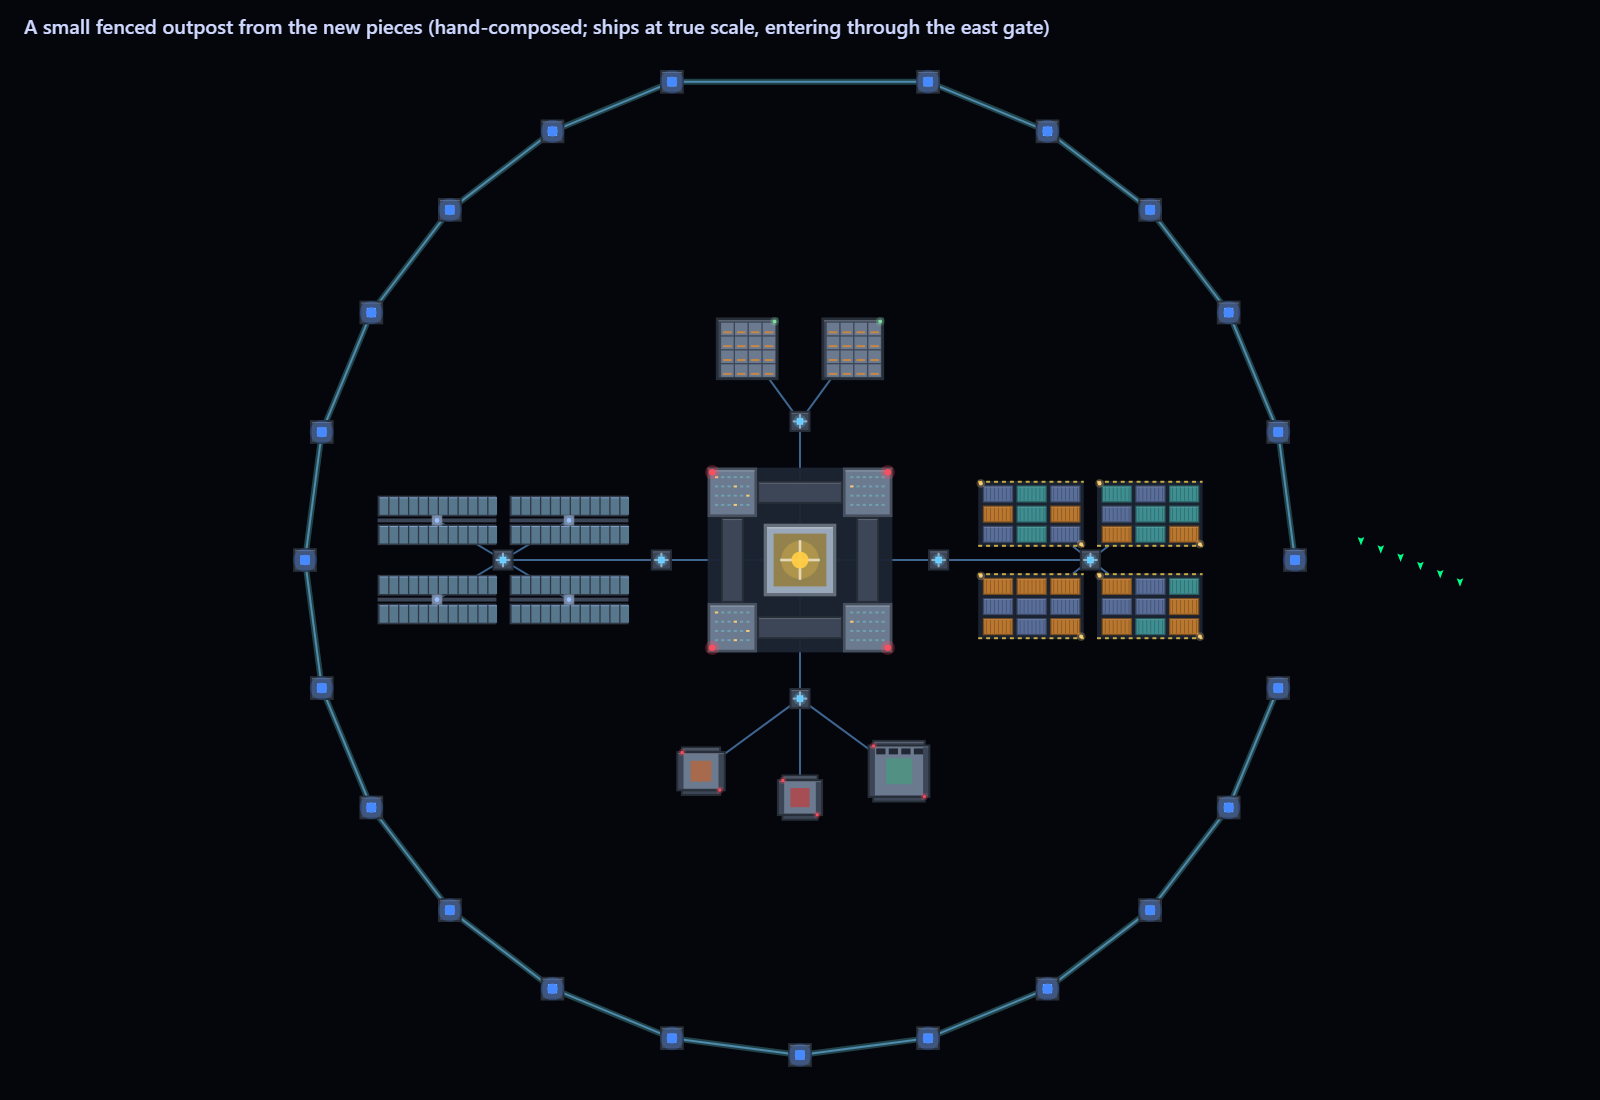
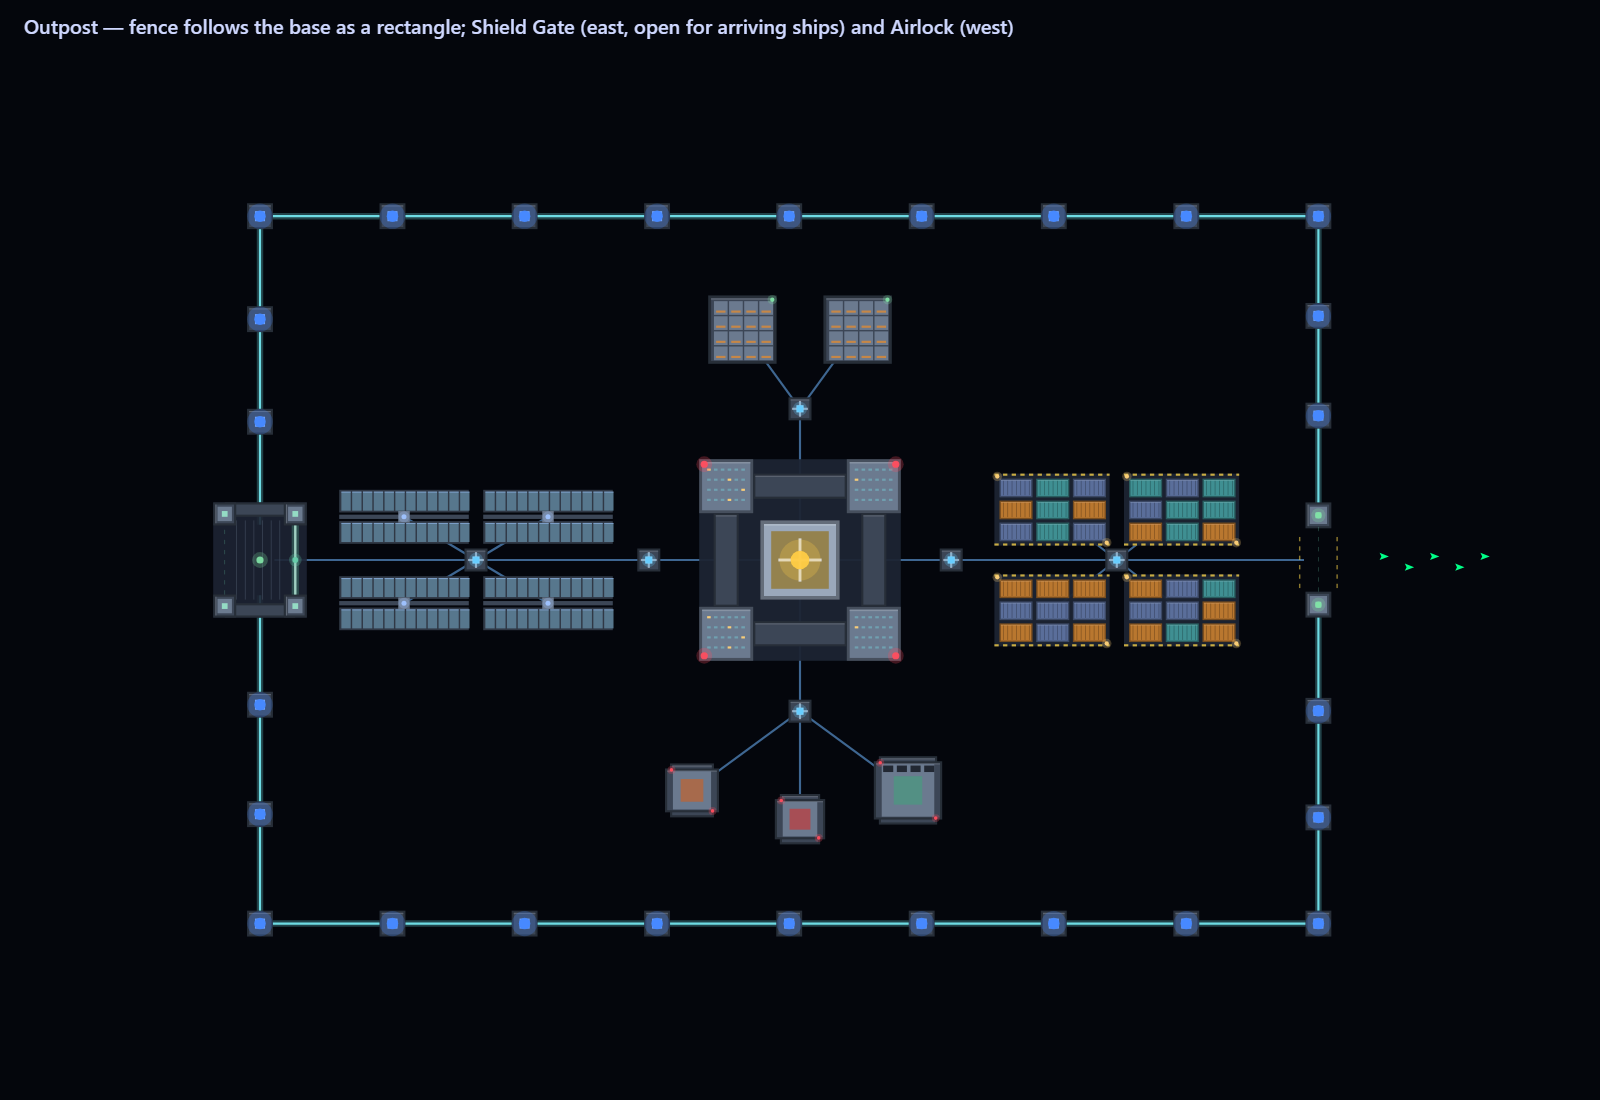
feat(structures): V design — Shield Gate + Airlock, contour (rectangular) fence in the design sheet (plan: soft-leaping-truffle v2)
Draw plans for two new pylon variants requested by the user: a Shield
Gate (one structure, two posts, a shield span that opens on approach)
and a Shield Airlock (a chamber that opens one end or the other, never
both). The design-sheet outpost now fences the base's footprint extent
as a rectangle, built as segments that end exactly at the gate posts.

Claude-Session: https://claude.ai/code/session_01VvUaXSrJHKkjbMhrGtHDqD

diff --git a/scripts/showcase/structure-design-sheet.ts b/scripts/showcase/structure-design-sheet.ts
@@ -4,34 +4,55 @@
  * (`structureVisuals.ts`):
  *  1. every structure kind, old regular-polygon silhouette vs the new
  *     architectural footprint, with a fighter drawn at true scale;
- *  2. a small fenced outpost composed from the new pieces.
+ *  2. the gate structures: Shield Gate (closed / open) and Shield Airlock
+ *     (closed / end A open / end B open — never both);
+ *  3. a small outpost whose fence is a rectangle hugging the base's extent
+ *     (not a circle), with a Shield Gate on one side and an Airlock on another.
  *
  *   pnpm tsx scripts/showcase/structure-design-sheet.ts [outDir]
  */
 import { chromium } from '@playwright/test';
 import { mkdirSync } from 'node:fs';
 import { STRUCTURE_KINDS_LIST, getStructureKind } from '../../src/shared-types/structureKinds.js';
-import { buildStructureVisual, PROPOSED_FOOTPRINTS } from '../../src/client/render/pixi/structureVisuals.js';
+import { buildStructureVisual, PROPOSED_FOOTPRINTS, type GateState } from '../../src/client/render/pixi/structureVisuals.js';
 import { shipHullOutline, shipPrimaryColor } from '../../src/core/geometry/shipHullOutline.js';
 import { GAMEPLAY_SHIP_KINDS_LIST } from '../../src/shared-types/shipKinds.js';
 
 const out = process.argv[2] ?? 'diag/showcase/structure-redesign';
 mkdirSync(out, { recursive: true });
 
-type Item = { kind: string; x: number; y: number; rot?: number };
-function plan(kind: string, seed: number) {
-  const v = buildStructureVisual(kind, { accent: getStructureKind(kind).color, seed });
-  return { rects: v.rects.map((r) => [r.x, r.y, r.w, r.h, r.color, Math.round(r.alpha * 1000)]), lights: v.lights.map((l) => [l.x, l.y, l.r, l.color]), fp: v.footprint };
+const GATE_ACCENT = 0x66ccaa; // the shield-pylon tint (gates are pylon variants)
+const NAMES: Record<string, string> = { shield_gate: 'Shield Gate', shield_airlock: 'Shield Airlock' };
+function accentOf(kind: string): number {
+  return kind === 'shield_gate' || kind === 'shield_airlock' ? GATE_ACCENT : getStructureKind(kind).color;
+}
+function plan(kind: string, seed: number, gate?: GateState) {
+  const v = buildStructureVisual(kind, { accent: accentOf(kind), seed, gate });
+  return {
+    rects: v.rects.map((r) => [r.x, r.y, r.w, r.h, r.color, Math.round(r.alpha * 1000)]),
+    lights: v.lights.map((l) => [l.x, l.y, l.r, l.color]),
+    fp: v.footprint,
+  };
 }
 
-// Sheet 1: kinds in a row-wrapped grid.
+// Sheet 1: every existing kind, old vs new.
 const kinds = STRUCTURE_KINDS_LIST.map((k) => k.id).filter((id) => PROPOSED_FOOTPRINTS[id]);
-const sheet = kinds.map((id, i) => ({ id, name: getStructureKind(id).displayName ?? id, oldR: getStructureKind(id).radius, sides: 0, ...plan(id, i + 1) }));
-const fighter = { pts: shipHullOutline(GAMEPLAY_SHIP_KINDS_LIST.find((k) => k.id === 'fighter')!).flat(), color: shipPrimaryColor(GAMEPLAY_SHIP_KINDS_LIST.find((k) => k.id === 'fighter')!) };
+const sheet = kinds.map((id, i) => ({ id, name: getStructureKind(id).displayName ?? id, oldR: getStructureKind(id).radius, ...plan(id, i + 1) }));
+const fk = GAMEPLAY_SHIP_KINDS_LIST.find((k) => k.id === 'fighter')!;
+const fighter = { pts: shipHullOutline(fk).flat(), color: shipPrimaryColor(fk) };
 
-// Sheet 2: a small outpost (hand-composed for the review — the generator
-// comes in phase D).
-const outpost: Item[] = [
+// Sheet 2: gates in each state.
+const gates = [
+  { label: 'Shield Gate — closed', ...plan('shield_gate', 1, 'closed') },
+  { label: 'Shield Gate — open (a ship is approaching)', ...plan('shield_gate', 1, 'open') },
+  { label: 'Airlock — both ends closed', ...plan('shield_airlock', 1, 'closed') },
+  { label: 'Airlock — end A open', ...plan('shield_airlock', 1, 'openA') },
+  { label: 'Airlock — end B open', ...plan('shield_airlock', 1, 'openB') },
+];
+
+// Sheet 3: the outpost with a rectangular fence that hugs the base.
+type Item = { kind: string; x: number; y: number; rot?: 0 | 90; gate?: GateState };
+const core: Item[] = [
   { kind: 'capital', x: 0, y: 0 },
   { kind: 'connector', x: 420, y: 0 }, { kind: 'connector', x: -420, y: 0 },
   { kind: 'connector', x: 0, y: 420 }, { kind: 'connector', x: 0, y: -420 },
@@ -42,58 +63,103 @@ const outpost: Item[] = [
   { kind: 'battery', x: -160, y: 640 }, { kind: 'battery', x: 160, y: 640 },
   { kind: 'turret', x: 0, y: -720 }, { kind: 'missile_turret', x: 300, y: -640 }, { kind: 'laser_bolt_turret', x: -300, y: -640 },
 ];
-const R = 1500;
-for (let a = 0; a < 360; a += 15) {
-  if (a > 80 && a < 100) continue; // a gate on the east side
-  outpost.push({ kind: 'shield_pylon', x: Math.round(Math.cos((a * Math.PI) / 180) * R), y: Math.round(Math.sin((a * Math.PI) / 180) * R) });
+// Fence rectangle = the base's footprint extent + a margin (contour-hugging),
+// pylons at ≤ 400 u spacing, corners included; a Shield Gate replaces the
+// east-middle span and an Airlock the west-middle span.
+let minX = Infinity, maxX = -Infinity, minY = Infinity, maxY = -Infinity;
+for (const it of core) {
+  const f = PROPOSED_FOOTPRINTS[it.kind]!;
+  minX = Math.min(minX, it.x - f.w / 2); maxX = Math.max(maxX, it.x + f.w / 2);
+  minY = Math.min(minY, it.y - f.h / 2); maxY = Math.max(maxY, it.y + f.h / 2);
 }
-const outpostPlans = outpost.map((it, i) => ({ ...it, ...plan(it.kind, i + 7) }));
+const M = 220;
+const fx0 = Math.floor(minX - M), fx1 = Math.ceil(maxX + M), fy0 = Math.floor(minY - M), fy1 = Math.ceil(maxY + M);
+// Each fence side is built as SEGMENTS ending exactly at the gate posts, so
+// the shield is continuous right up to the Shield Gate / Airlock.
+const gateHalf = PROPOSED_FOOTPRINTS.shield_gate!.w / 2 - PROPOSED_FOOTPRINTS.shield_gate!.h / 2; // post centre
+const lockHalf = PROPOSED_FOOTPRINTS.shield_airlock!.h / 2 - 32; // airlock outer post centre (rotated 90)
+const segs: Array<[number, number, number, number]> = [
+  [fx0, fy0, fx1, fy0],
+  [fx1, fy0, fx1, -gateHalf], [fx1, gateHalf, fx1, fy1],
+  [fx1, fy1, fx0, fy1],
+  [fx0, fy1, fx0, lockHalf], [fx0, -lockHalf, fx0, fy0],
+];
+const pylons = new Map<string, [number, number]>();
+const spans: number[][] = [];
+for (const [ax, ay, bx, by] of segs) {
+  const n = Math.max(1, Math.ceil(Math.hypot(bx - ax, by - ay) / 400));
+  let px = ax, py = ay;
+  for (let i = 1; i <= n; i++) {
+    const x = Math.round(ax + ((bx - ax) * i) / n), y = Math.round(ay + ((by - ay) * i) / n);
+    spans.push([px, py, x, y]);
+    px = x; py = y;
+  }
+  for (let i = 0; i <= n; i++) {
+    const x = Math.round(ax + ((bx - ax) * i) / n), y = Math.round(ay + ((by - ay) * i) / n);
+    // Segment ends that touch a gate are the gate's own posts — no pylon there.
+    const atGate = (x === fx1 && Math.abs(y) === gateHalf) || (x === fx0 && Math.abs(y) === lockHalf);
+    if (!atGate) pylons.set(x + ',' + y, [x, y]);
+  }
+}
+const gateE = { kind: 'shield_gate', x: fx1, y: 0, rot: 90 as const, gate: 'open' as GateState };
+const lockW = { kind: 'shield_airlock', x: fx0, y: 0, rot: 90 as const, gate: 'openA' as GateState };
+const fence: Item[] = [...pylons.values()].map(([x, y]) => ({ kind: 'shield_pylon', x, y }));
+const items: Item[] = [...core, ...fence, gateE, lockW];
+const itemPlans = items.map((it, i) => ({ ...it, ...plan(it.kind, i + 7, it.gate) }));
 const links: number[][] = [];
-const conn = (a: number, b: number): void => { links.push([outpost[a]!.x, outpost[a]!.y, outpost[b]!.x, outpost[b]!.y]); };
+const conn = (a: number, b: number): void => { links.push([core[a]!.x, core[a]!.y, core[b]!.x, core[b]!.y]); };
 for (const k of [1, 2, 3, 4]) conn(0, k);
 for (const k of [5, 6, 7, 8]) conn(9, k);
 conn(1, 9);
 for (const k of [10, 11, 12, 13]) conn(14, k);
 conn(2, 14);
 conn(3, 15); conn(3, 16); conn(4, 17); conn(4, 18); conn(4, 19);
-const firstPylon = 20;
-for (let p = firstPylon; p < outpost.length - 1; p++) conn(p, p + 1);
+links.push([880, 0, fx1 - 40, 0]); // tap the east gate
+links.push([-900, 0, fx0 + 40, 0]); // tap the west airlock
 
-const html = `<!doctype html><body style="margin:0;background:#04060c"><canvas id=a width=1600 height=900></canvas><canvas id=b width=1600 height=1100></canvas><script>
-const S=${JSON.stringify(sheet)},F=${JSON.stringify(fighter)},O=${JSON.stringify(outpostPlans)},LK=${JSON.stringify(links)};
+const html = `<!doctype html><body style="margin:0;background:#04060c"><canvas id=a width=1600 height=560></canvas><canvas id=g width=1600 height=330></canvas><canvas id=b width=1600 height=1100></canvas><script>
+const S=${JSON.stringify(sheet)},F=${JSON.stringify(fighter)},G=${JSON.stringify(gates)},O=${JSON.stringify(itemPlans)},LK=${JSON.stringify(links)},SP=${JSON.stringify(spans)};
 const hex=n=>'#'+n.toString(16).padStart(6,'0');
-function drawPlan(g,p,x,y){g.save();g.translate(x,y);for(const r of p.rects){g.globalAlpha=r[5]/1000;g.fillStyle=hex(r[4]);g.fillRect(r[0],r[1],r[2],r[3]);}
+function drawPlan(g,p,x,y,rot){g.save();g.translate(x,y);if(rot)g.rotate(-rot*Math.PI/180);for(const r of p.rects){g.globalAlpha=r[5]/1000;g.fillStyle=hex(r[4]);g.fillRect(r[0],r[1],r[2],r[3]);}
  for(const l of p.lights){g.fillStyle=hex(l[3]);g.globalAlpha=.25;g.beginPath();g.arc(l[0],l[1],l[2]*2.2,0,7);g.fill();g.globalAlpha=.95;g.beginPath();g.arc(l[0],l[1],l[2],0,7);g.fill();}g.restore();g.globalAlpha=1;}
-function ship(g,x,y,s){g.save();g.translate(x,y);g.scale(s,s);g.fillStyle=hex(F.color);g.beginPath();for(let i=0;i<F.pts.length;i+=2){i?g.lineTo(F.pts[i],-F.pts[i+1]):g.moveTo(F.pts[i],-F.pts[i+1]);}g.closePath();g.fill();g.restore();}
+function ship(g,x,y,s,rot){g.save();g.translate(x,y);if(rot)g.rotate(rot);g.scale(s,s);g.fillStyle=hex(F.color);g.beginPath();for(let i=0;i<F.pts.length;i+=2){i?g.lineTo(F.pts[i],-F.pts[i+1]):g.moveTo(F.pts[i],-F.pts[i+1]);}g.closePath();g.fill();g.restore();}
 function poly(g,x,y,r,n,c){g.save();g.translate(x,y);g.fillStyle=hex(c);g.globalAlpha=.9;g.beginPath();for(let i=0;i<n;i++){const a=i/n*Math.PI*2-Math.PI/2;i?g.lineTo(Math.cos(a)*r,Math.sin(a)*r):g.moveTo(Math.cos(a)*r,Math.sin(a)*r);}g.closePath();g.fill();g.restore();g.globalAlpha=1;}
-// Sheet 1 — scale 0.42 world→px.
+// Sheet 1.
 const a=document.getElementById('a').getContext('2d');const z=0.42;
 a.fillStyle='#cfd8ff';a.font='600 20px system-ui';a.fillText('Old (left, true size) vs redesigned (right) · fighter for scale',24,34);
 let cx=40,cy=80,rowH=0;
 for(const it of S){const w=it.fp.w*z,h=it.fp.h*z;if(cx+w+90>1580){cx=40;cy+=rowH+70;rowH=0;}
- a.save();a.scale(1,1);poly(a,cx+20,cy+h/2,it.oldR*z,6,0x8899aa);a.restore();
+ poly(a,cx+20,cy+h/2,it.oldR*z,6,0x8899aa);
  a.save();a.translate(cx+50+w/2,cy+h/2);a.scale(z,z);drawPlan(a,it,0,0);a.restore();
  ship(a,cx+50+w+24,cy+h/2,z);
  a.fillStyle='#8fa0bb';a.font='13px system-ui';a.fillText(it.name+'  '+it.fp.w+'×'+it.fp.h+' u',cx,cy+h+22);
  cx+=w+150;rowH=Math.max(rowH,h);}
-// Sheet 2 — the outpost at scale 0.3, centred.
-const b=document.getElementById('b').getContext('2d');const s=0.33;
+// Sheet 2: gates.
+const gg=document.getElementById('g').getContext('2d');const zg=0.6;
+gg.fillStyle='#cfd8ff';gg.font='600 20px system-ui';gg.fillText('Gates — a Shield Gate is ONE structure (two posts + a shield); an Airlock never opens both ends',24,34);
+let gx=30;
+G.forEach((it,i)=>{const w=it.fp.w*zg,h=it.fp.h*zg;gg.save();gg.translate(gx+w/2,180);gg.scale(zg,zg);drawPlan(gg,it,0,0);
+ if(i===1)ship(gg,0,-110,1.6,Math.PI);if(i===3)ship(gg,0,-150,1.6,Math.PI);if(i===4)ship(gg,0,150,1.6,Math.PI);gg.restore();
+ gg.fillStyle='#8fa0bb';gg.font='13px system-ui';gg.fillText(it.label,gx,300);gx+=w+110;});
+// Sheet 3: the outpost.
+const b=document.getElementById('b').getContext('2d');const s=0.36;
 b.save();b.translate(800,560);b.scale(s,s);
+b.strokeStyle='#7cf7ff';b.lineWidth=18;b.globalAlpha=.25;for(const l of SP){b.beginPath();b.moveTo(l[0],-l[1]);b.lineTo(l[2],-l[3]);b.stroke();}
+b.lineWidth=6;b.globalAlpha=.85;for(const l of SP){b.beginPath();b.moveTo(l[0],-l[1]);b.lineTo(l[2],-l[3]);b.stroke();}
 b.strokeStyle='#6fb6ff';b.globalAlpha=.55;b.lineWidth=6;for(const l of LK){b.beginPath();b.moveTo(l[0],-l[1]);b.lineTo(l[2],-l[3]);b.stroke();}
 b.globalAlpha=1;
-// Shield fence spans between consecutive pylons.
-b.strokeStyle='#7cf7ff';b.lineWidth=18;b.globalAlpha=.25;const pyl=O.filter(o=>o.kind==='shield_pylon');for(let i=0;i<pyl.length-1;i++){b.beginPath();b.moveTo(pyl[i].x,-pyl[i].y);b.lineTo(pyl[i+1].x,-pyl[i+1].y);b.stroke();}b.globalAlpha=1;
-for(const o of O)drawPlan(b,o,o.x,-o.y);
-for(let i=0;i<6;i++)ship(b,1700+i*60,-60+i*25,1);
+for(const o of O)drawPlan(b,o,o.x,-o.y,o.rot);
+for(let i=0;i<5;i++)ship(b,${fx1}+180+i*70,-10+(i%2)*30,1,-Math.PI/2);
 b.restore();
-b.fillStyle='#cfd8ff';b.font='600 20px system-ui';b.fillText('A small fenced outpost from the new pieces (hand-composed; ships at true scale, entering through the east gate)',24,34);
+b.fillStyle='#cfd8ff';b.font='600 20px system-ui';b.fillText('Outpost — fence follows the base as a rectangle; Shield Gate (east, open for arriving ships) and Airlock (west)',24,34);
 document.title='done';
 </script></body>`;
 const browser = await chromium.launch();
-const page = await browser.newPage({ viewport: { width: 1600, height: 2000 } });
+const page = await browser.newPage({ viewport: { width: 1600, height: 2100 } });
 await page.setContent(html);
 await page.waitForFunction(() => document.title === 'done');
 await page.locator('#a').screenshot({ path: `${out}/kinds.png` });
+await page.locator('#g').screenshot({ path: `${out}/gates.png` });
 await page.locator('#b').screenshot({ path: `${out}/outpost.png` });
 await browser.close();
-console.log('wrote', out);
+console.log('wrote', out, 'fence', fx0, fx1, fy0, fy1, NAMES.shield_gate);

diff --git a/src/client/render/pixi/structureVisuals.ts b/src/client/render/pixi/structureVisuals.ts
@@ -34,7 +34,16 @@ export const PROPOSED_FOOTPRINTS: Readonly<Record<string, StructureFootprint>> =
   laser_bolt_turret: { w: 150, h: 150 },
   missile_turret: { w: 190, h: 190 },
   cargo_bay: { w: 320, h: 200 },
+  // User request 2026-11-01 — gates. A Shield Gate is ONE structure: two gate
+  // posts placed together with a shield span between them that opens when an
+  // allowed ship approaches. A Shield Airlock is a chamber with a shield gate at
+  // each end; it opens one end or the other, never both.
+  shield_gate: { w: 320, h: 72 },
+  shield_airlock: { w: 320, h: 260 },
 };
+
+/** Gate / airlock shield state for the draw plan (from room state at runtime). */
+export type GateState = 'closed' | 'open' | 'openA' | 'openB';
 
 export interface StructureVisual {
   rects: RectOp[];
@@ -49,6 +58,28 @@ export interface StructureVisualOpts {
   powered?: boolean;
   /** Per-instance variety (deterministic). */
   seed?: number;
+  /** Shield Gate: 'open' | 'closed'. Shield Airlock: 'openA' | 'openB' | 'closed'. */
+  gate?: GateState;
+}
+
+/** A gate shield span between two posts: bright when closed, a faint ghost
+ *  line when open. Horizontal span from x0..x1 at y, thickness t. */
+function shieldSpan(out: RectOp[], lights: LightOp[], x0: number, x1: number, y: number, t: number, open: boolean, accent: number, live: boolean): void {
+  if (open || !live) {
+    // Open: two short stubs at the posts + a faint dashed guide.
+    for (let x = x0; x < x1; x += 28) out.push({ x, y: y - 1, w: 12, h: 2, color: accent, alpha: 0.35 });
+    return;
+  }
+  out.push({ x: x0, y: y - t / 2, w: x1 - x0, h: t, color: accent, alpha: 0.28 });
+  out.push({ x: x0, y: y - t / 6, w: x1 - x0, h: Math.max(2, t / 3), color: mixColor(accent, 0xffffff, 0.5), alpha: 0.85 });
+  lights.push({ x: (x0 + x1) / 2, y, r: 8, color: accent });
+}
+
+/** A gate post (the shield emitter block at either end of a gate). */
+function gatePost(out: RectOp[], x: number, y: number, size: number, accent: number): void {
+  slab(out, x - size / 2, y - size / 2, size, size, STEEL_DARK, 6);
+  box(out, x - size / 2 + 12, y - size / 2 + 12, size - 24, size - 24, STEEL);
+  box(out, x - 8, y - 8, 16, 16, mixColor(accent, 0xffffff, 0.3));
 }
 
 const STEEL = 0x6b7a8f;
@@ -221,6 +252,40 @@ export function buildStructureVisual(kindId: string, opts: StructureVisualOpts):
       slab(rects, x0, y0, W, H, STEEL_DARK, 6);
       box(rects, -14, -14, 28, 28, mixColor(accent, 0xffffff, 0.3));
       lit(0, 0, 16, accent);
+      break;
+    }
+    case 'shield_gate': {
+      // Two posts (placed as one structure) with a shield span between them.
+      const post = H;
+      gatePost(rects, x0 + post / 2, 0, post, accent);
+      gatePost(rects, x0 + W - post / 2, 0, post, accent);
+      // Approach markings on the deck either side of the span.
+      for (let x = x0 + post + 10; x < x0 + W - post - 10; x += 26) {
+        box(rects, x, -H / 2 - 18, 12, 4, 0xe8c547, 0.6);
+        box(rects, x, H / 2 + 14, 12, 4, 0xe8c547, 0.6);
+      }
+      shieldSpan(rects, lights, x0 + post, x0 + W - post, 0, 22, opts.gate === 'open', accent, live);
+      lit(x0 + post / 2, 0, 9, opts.gate === 'open' ? 0x7fe0a4 : RED);
+      lit(x0 + W - post / 2, 0, 9, opts.gate === 'open' ? 0x7fe0a4 : RED);
+      break;
+    }
+    case 'shield_airlock': {
+      // A chamber: two solid side walls, a shield gate at each end (A = top,
+      // B = bottom in local space). Never both open.
+      const wall = 40, post = 64;
+      box(rects, x0, y0, W, H, DECK, 0.9);
+      slab(rects, x0, y0 + post / 2, wall, H - post, STEEL_DARK, 6);
+      slab(rects, x0 + W - wall, y0 + post / 2, wall, H - post, STEEL_DARK, 6);
+      for (let y = y0 + post; y < y0 + H - post; y += 24) box(rects, x0 + wall + 10, y, W - 2 * wall - 20, 2, mixColor(STEEL, DECK, 0.6));
+      for (const ey of [y0 + post / 2, y0 + H - post / 2]) {
+        gatePost(rects, x0 + post / 2, ey, post, accent);
+        gatePost(rects, x0 + W - post / 2, ey, post, accent);
+      }
+      const g = opts.gate ?? 'closed';
+      shieldSpan(rects, lights, x0 + post, x0 + W - post, y0 + post / 2, 20, g === 'openA', accent, live);
+      shieldSpan(rects, lights, x0 + post, x0 + W - post, y0 + H - post / 2, 20, g === 'openB', accent, live);
+      // Cycle indicator: which end may open next.
+      lit(x0 + W / 2, 0, 10, g === 'closed' ? RED : 0x7fe0a4);
       break;
     }
     default:
